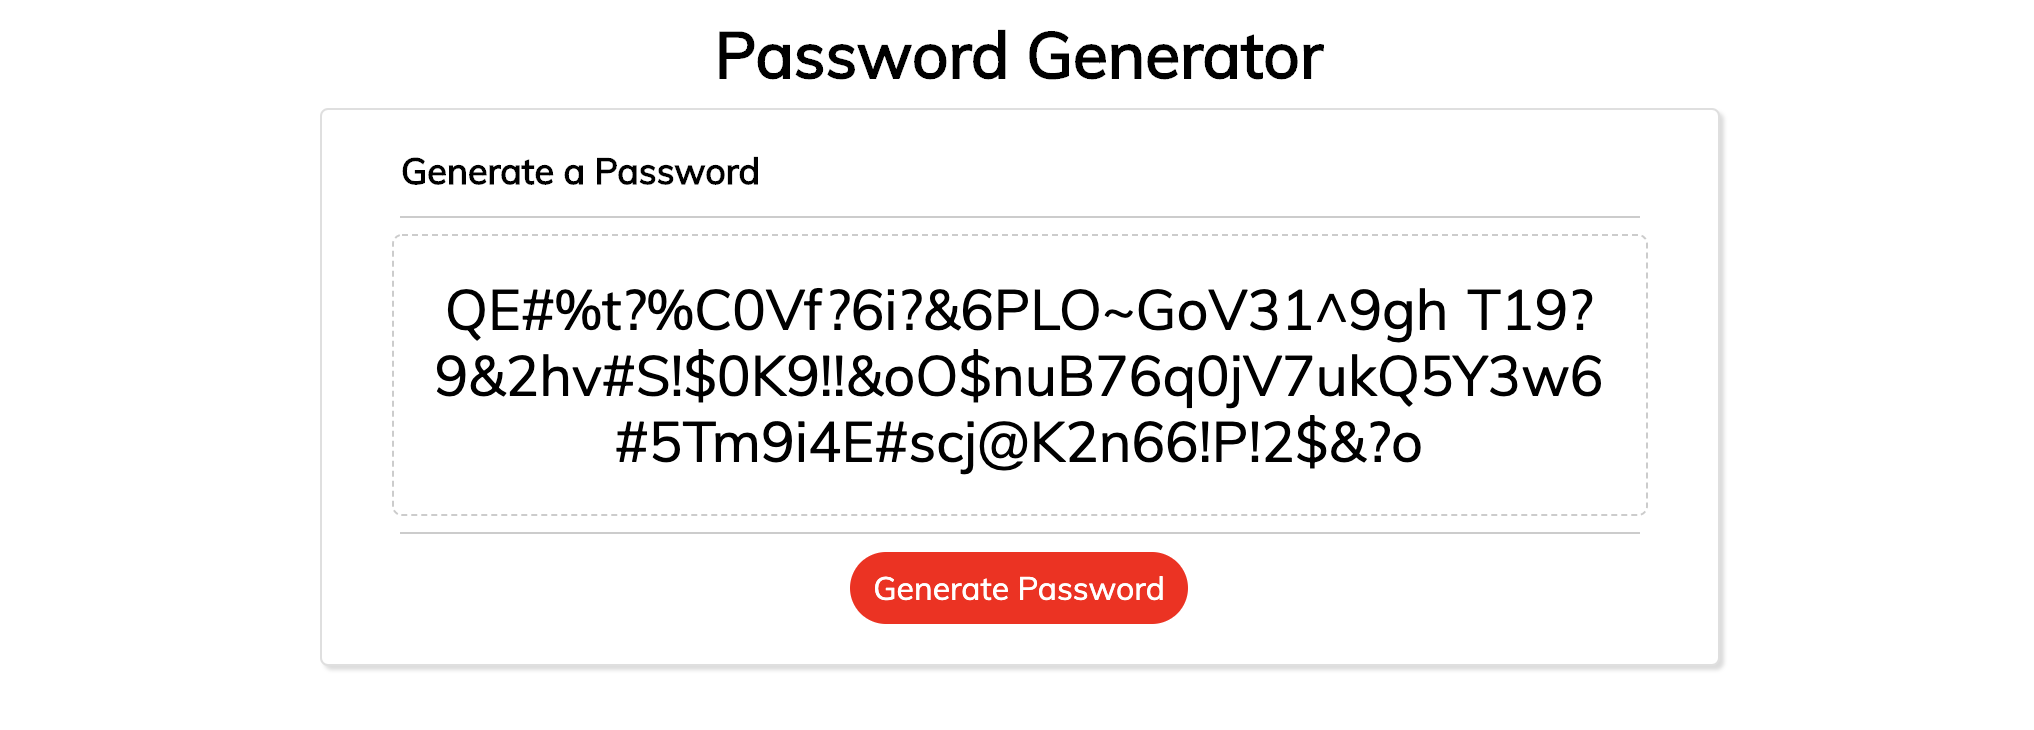
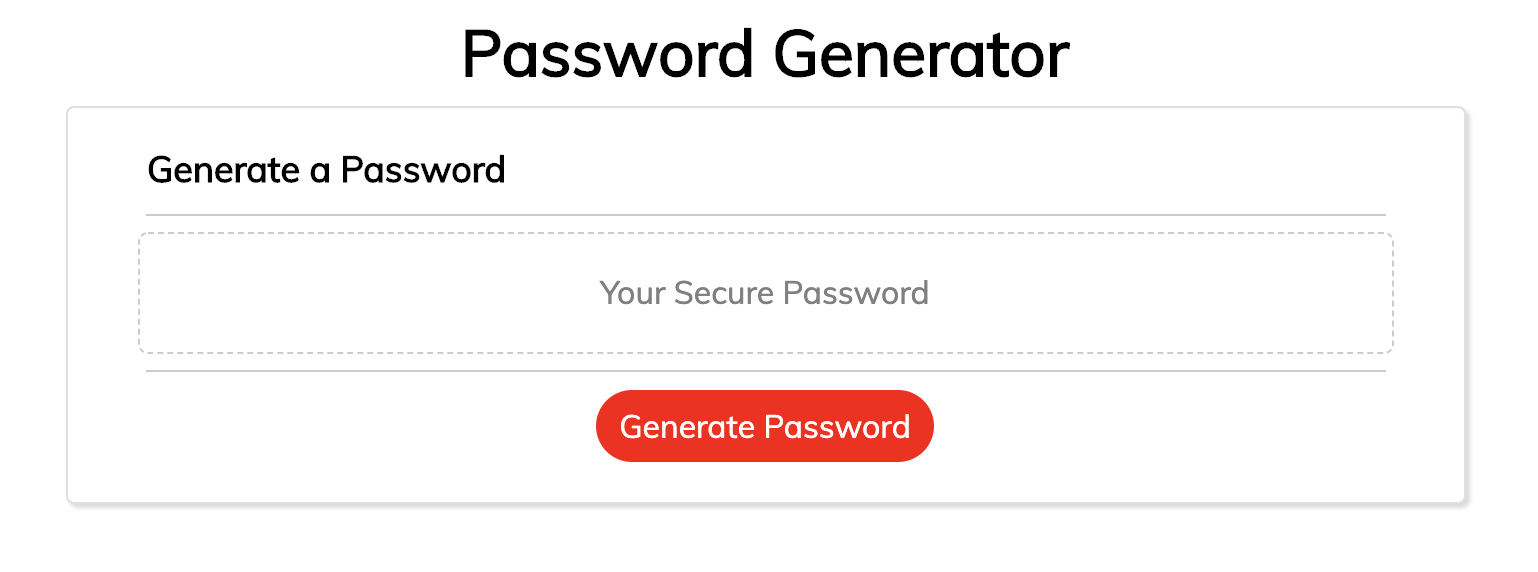
edited README image again, updated css to change password output color, and added placeholder verbiage inside password box.

diff --git a/assets/javascript/app.js b/assets/javascript/app.js
@@ -59,7 +59,7 @@ genButton.addEventListener("click", function () {
                 storedPassword = storedPassword + selectedArray[randCharacterPosition];
 
             } else {
-                //computer picked an array that the user didn't want to include in the password, so then stays in the same position in the loop until the computer picks one the user doesn't
+                //computer picked an array that the user didn't want to include in the password, so then stays in the same position in the loop until the computer picks one the user does want
                 i--;
             }
         };

diff --git a/index.html b/index.html
@@ -21,7 +21,7 @@
                             <h2 class="card-title">Generate a Password</h2>
                             <hr>
                             <div class="col-sm-12 text-center">
-                                <h3 id="password"></h3>
+                                <h3 id="password">Your Secure Password</h3>
                                 <hr>
                                 <button id="generate" type="button" class="btn btn-primary">
                                     Generate Password

diff --git a/assets/css/styles.css b/assets/css/styles.css
@@ -17,6 +17,10 @@ h2 {
 	font-weight: bold;
 	text-align: left;
 }
+h3 {
+	font-size: medium;
+	color: grey;
+}
 
 hr {
 	width: 620px;
